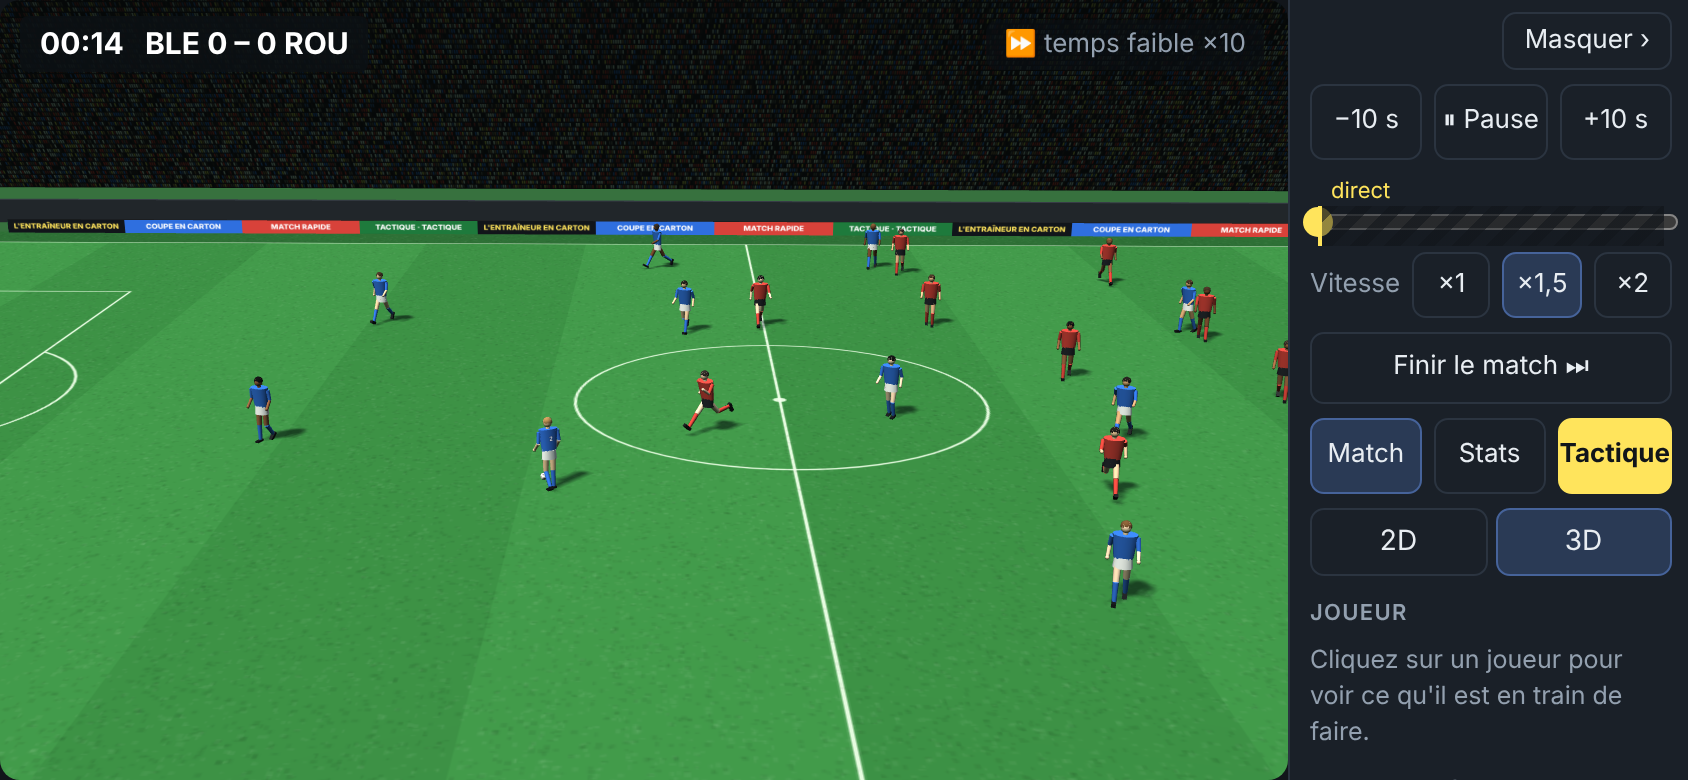
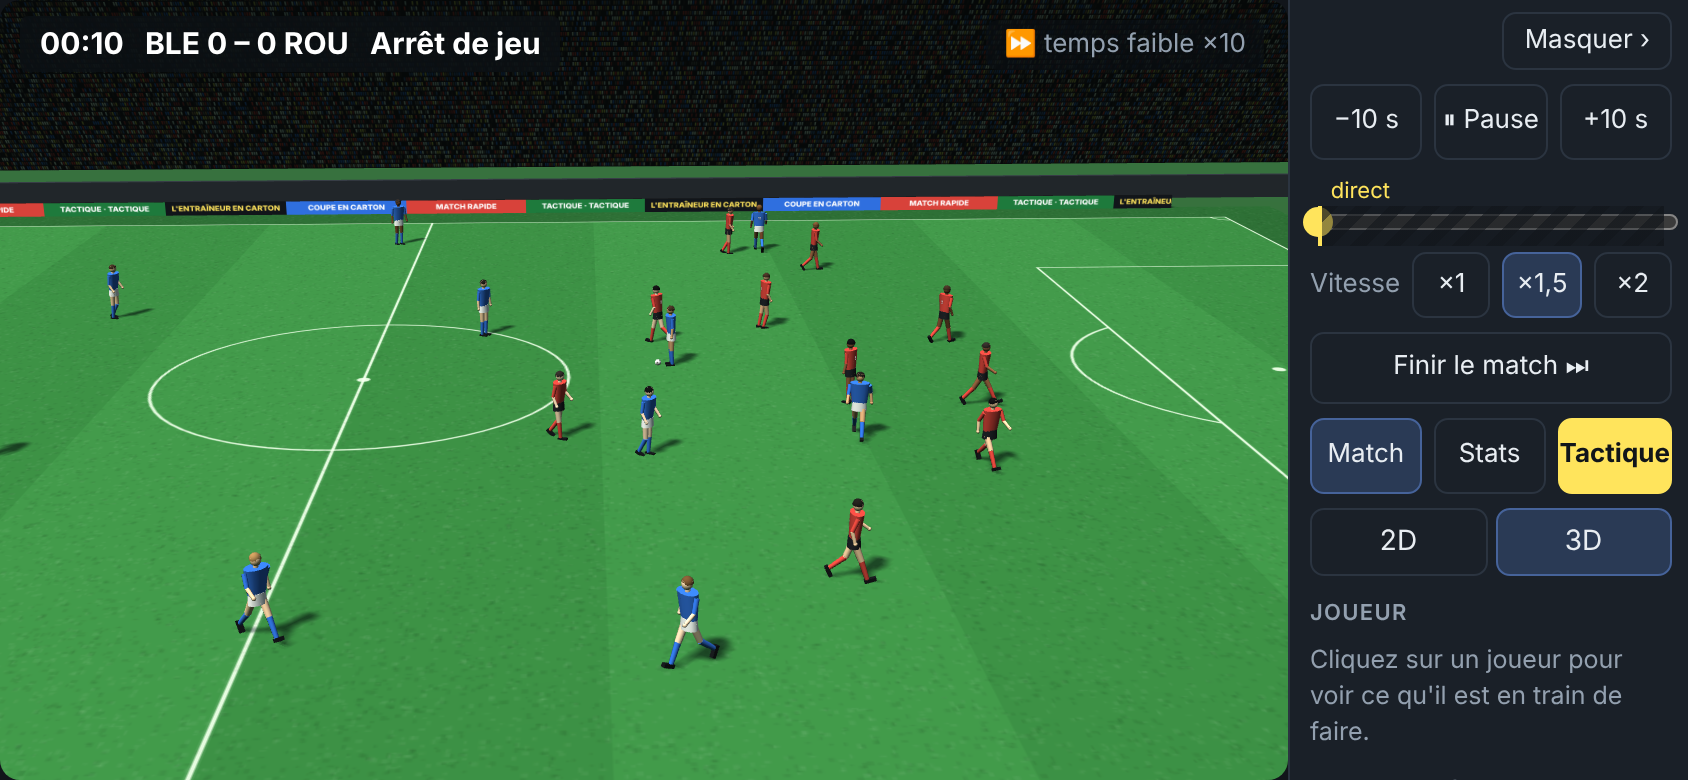
Joueurs animés : essais adaptés (longs parcours avec les joueurs faits main, essai court du replay animé), pas d'ombre de joueur sur téléphone (n° 129)
Claude-Session: https://claude.ai/code/session_01JE8fKzMuvQtjsPz4c7PEni

diff --git a/tools/replay.js b/tools/replay.js
@@ -15,7 +15,9 @@ const SEED = 22;      // équipes standard, 10 minutes : un but à 0:51
 (async () => {
   const browser = await pw.chromium.launch({ args: ['--use-gl=swiftshader', '--enable-webgl', '--ignore-gpu-blocklist'] });
   const errors = [];
-  const serve = async ctx => { await ctx.route(R3.LIB, r => r.fulfill({ status: 200, contentType: 'application/javascript', body: fs.readFileSync(LIBF) })); for (const [u, f] of P3F) await ctx.route(u, r => r.fulfill({ status: 200, contentType: /\.glb$/.test(u) ? 'model/gltf-binary' : 'application/javascript', body: fs.readFileSync(f) })); };
+  // model = false : sans le mannequin animé (joueurs faits main). Ici, sans carte graphique, 22 corps animés ne font qu'une image par seconde :
+// les longs parcours se font donc avec les joueurs faits main, et un essai court vérifie les joueurs animés.
+const serve = async (ctx, model = true) => { await ctx.route(R3.LIB, r => r.fulfill({ status: 200, contentType: 'application/javascript', body: fs.readFileSync(LIBF) })); for (const [u, f] of P3F) await ctx.route(u, r => !model && /\.glb$/.test(u) ? r.abort() : r.fulfill({ status: 200, contentType: /\.glb$/.test(u) ? 'model/gltf-binary' : 'application/javascript', body: fs.readFileSync(f) })); };
   const state = p => p.evaluate(() => document.body.dataset.replay || '');
   const colors = async p => {
     const png = (await (await p.$('#replayCv')).screenshot()).toString('base64');
@@ -28,7 +30,7 @@ const SEED = 22;      // équipes standard, 10 minutes : un but à 0:51
   };
 
   console.log('Ordinateur');
-  const ctx = await browser.newContext({ viewport: { width: 1400, height: 900 } }); await serve(ctx);
+  const ctx = await browser.newContext({ viewport: { width: 1400, height: 900 } }); await serve(ctx, false);
   const page = await ctx.newPage(); page.on('pageerror', e => errors.push(String(e)));
   await start(page);
   check(await page.isChecked('#rpAuto'), 'case « Replay des buts » cochée par défaut');
@@ -72,7 +74,7 @@ const SEED = 22;      // équipes standard, 10 minutes : un but à 0:51
   await page.check('#rpAuto');
 
   console.log('Téléphone couché (844 × 390)');
-  const tel = await browser.newContext({ viewport: { width: 844, height: 390 }, isMobile: true, hasTouch: true, deviceScaleFactor: 2 }); await serve(tel);
+  const tel = await browser.newContext({ viewport: { width: 844, height: 390 }, isMobile: true, hasTouch: true, deviceScaleFactor: 2 }); await serve(tel, false);
   const ph = await tel.newPage(); ph.on('pageerror', e => errors.push(String(e)));
   await ph.goto(url); await ph.evaluate(() => { localStorage.setItem('menuFerme', '1'); localStorage.removeItem('vue'); }); await start(ph);
   await ph.tap('#kick'); await ph.evaluate(() => document.querySelector('[data-speed="2"]').click());
@@ -83,6 +85,17 @@ const SEED = 22;      // équipes standard, 10 minutes : un but à 0:51
   await ph.screenshot({ path: path.join(DOCS, 'replay-telephone.png') }); console.log('        capture : docs/replay-telephone.png');
   await ph.tap('#rpSkip'); await ph.waitForTimeout(400);
   check(await ph.isHidden('#replay') && await ph.isVisible('#pmini'), '« Passer » au doigt : retour au match');
+
+  console.log('Replay avec les joueurs animés (vrais mouvements, n° 129)');
+  const an = await browser.newContext({ viewport: { width: 1200, height: 700 } }); await serve(an, true);
+  const ap = await an.newPage(); ap.on('pageerror', e => errors.push(String(e)));
+  await start(ap); await ap.click('#kick'); await ap.click('[data-speed="2"]');
+  await ap.waitForFunction(() => document.body.dataset.replay === 'tele', null, { timeout: 120000 });
+  await ap.waitForTimeout(4000);
+  const ca = await colors(ap);
+  check(await ap.evaluate(() => window.Players3D && Players3D.ready()) && ca > 40, 'le replay s\'affiche avec les joueurs animés', ca + ' teintes');
+  await ap.screenshot({ path: path.join(DOCS, 'replay-anime.png') }); console.log('        capture : docs/replay-anime.png');
+  await ap.click('#rpSkip');
 
   check(errors.length === 0, 'aucune erreur JavaScript', errors.join(' | '));
   await browser.close();

diff --git a/match.html b/match.html
@@ -2805,7 +2805,7 @@ function create(canvas, R2, opt) {
       const k = (p.num * 7 + p.team * 3 + p.id) >>> 0, shorts = p.team === 0 ? '#f2f4f7' : '#1b1f24', socks = p.role === 'GK' ? shirt : p.team === 0 ? '#2f6fdf' : '#d8423a';
       if (P3() && P3().ready()) {      // vrais mouvements (n° 129)
         const C = c => new THREE.Color(c);
-        f = P3().make({ shirt: C(shirt), shorts: C(shorts), socks: C(socks), skin: C(SKIN[k % SKIN.length]), hair: C(HAIR[(k >> 2) % HAIR.length]), boots: C('#141619'), hands: C(p.role === 'GK' ? '#f2f2f2' : SKIN[k % SKIN.length]) }, { num: p.num, ink: '#ffffff', shadow: true });
+        f = P3().make({ shirt: C(shirt), shorts: C(shorts), socks: C(socks), skin: C(SKIN[k % SKIN.length]), hair: C(HAIR[(k >> 2) % HAIR.length]), boots: C('#141619'), hands: C(p.role === 'GK' ? '#f2f2f2' : SKIN[k % SKIN.length]) }, { num: p.num, ink: '#ffffff', shadow: !opt.small });      // sur téléphone, pas d'ombre sous les joueurs (plus léger)
         f.userData.x = null; f.userData.lean = 0; scene.add(f);
       } else f = makePlayer(shirt, shorts, socks, SKIN[k % SKIN.length], HAIR[(k >> 2) % HAIR.length], p.num, '#ffffff');
       f.userData.key = key + shirt; figs.set(p.id, f);
@@ -3231,7 +3231,7 @@ function create(canvas, R2, opt) {
       const k = (q.num * 7 + q.team * 3 + i) >>> 0, gk = q.role === 'GK', shirt = gk ? KEEPER[q.team] : c.teams[q.team].color;
       const shorts = q.team === 0 ? '#f2f4f7' : '#1b1f24', socks = gk ? shirt : q.team === 0 ? '#2f6fdf' : '#d8423a';
       if (P3()) {      // vrais mouvements (n° 129)
-        const f = P3().make({ shirt: lin(shirt), shorts: lin(shorts), socks: lin(socks), skin: lin(SKIN[k % SKIN.length]), hair: lin(HAIR[(k >> 2) % HAIR.length]), boots: lin('#141619'), hands: lin(gk ? '#f2f2f2' : SKIN[k % SKIN.length]) }, { num: q.num, name: q.name, ink: gk ? '#11151a' : '#ffffff', shadow: true });
+        const f = P3().make({ shirt: lin(shirt), shorts: lin(shorts), socks: lin(socks), skin: lin(SKIN[k % SKIN.length]), hair: lin(HAIR[(k >> 2) % HAIR.length]), boots: lin('#141619'), hands: lin(gk ? '#f2f2f2' : SKIN[k % SKIN.length]) }, { num: q.num, name: q.name, ink: gk ? '#11151a' : '#ffffff', shadow: !opt.small });
         f.rotation.order = 'YXZ'; f.userData.sp = 0; scene.add(f); figs.push(f);
       } else figs.push(makePlayer(q, shirt, shorts, socks, SKIN[k % SKIN.length], HAIR[(k >> 2) % HAIR.length], gk));
     });

diff --git a/tools/vue3d.js b/tools/vue3d.js
@@ -16,7 +16,9 @@ let fails = 0; const check = (ok, what, info) => { if (!ok) fails++; console.log
 (async () => {
   const browser = await pw.chromium.launch({ args: ['--use-gl=swiftshader', '--enable-webgl', '--ignore-gpu-blocklist'] });
   const errors = [];
-  const serve = async ctx => { await ctx.route(R3.LIB, r => r.fulfill({ status: 200, contentType: 'application/javascript', body: fs.readFileSync(LIBF) })); for (const [u, f] of P3F) await ctx.route(u, r => r.fulfill({ status: 200, contentType: /\.glb$/.test(u) ? 'model/gltf-binary' : 'application/javascript', body: fs.readFileSync(f) })); };
+  // model = false : sans le mannequin animé (joueurs faits main). Ici, sans carte graphique, 22 corps animés ne font qu'une image par seconde :
+// les longs parcours se font donc avec les joueurs faits main, et un essai court vérifie les joueurs animés.
+const serve = async (ctx, model = true) => { await ctx.route(R3.LIB, r => r.fulfill({ status: 200, contentType: 'application/javascript', body: fs.readFileSync(LIBF) })); for (const [u, f] of P3F) await ctx.route(u, r => !model && /\.glb$/.test(u) ? r.abort() : r.fulfill({ status: 200, contentType: /\.glb$/.test(u) ? 'model/gltf-binary' : 'application/javascript', body: fs.readFileSync(f) })); };
 
   console.log('Ordinateur');
   const ctx = await browser.newContext({ viewport: { width: 1400, height: 900 } }); await serve(ctx);
@@ -52,7 +54,7 @@ let fails = 0; const check = (ok, what, info) => { if (!ok) fails++; console.log
   check(await page.evaluate(() => document.querySelector('[data-view="3d"]').classList.contains('on')), 'la vue 3D est retenue d\'une fois sur l\'autre');
 
   console.log('Téléphone couché (844 × 390)');
-  const tel = await browser.newContext({ viewport: { width: 844, height: 390 }, isMobile: true, hasTouch: true, deviceScaleFactor: 2 }); await serve(tel);
+  const tel = await browser.newContext({ viewport: { width: 844, height: 390 }, isMobile: true, hasTouch: true, deviceScaleFactor: 2 }); await serve(tel, false);
   const ph = await tel.newPage(); ph.on('pageerror', e => errors.push(String(e)));
   await ph.goto(url); await ph.evaluate(() => { localStorage.setItem('vue', '3d'); localStorage.removeItem('menuFerme'); }); await ph.reload();
   await ph.waitForFunction(() => document.body.dataset.vue3d === 'prete', null, { timeout: 60000 });

diff --git a/render3d.js b/render3d.js
@@ -185,7 +185,7 @@ function create(canvas, R2, opt) {
       const k = (p.num * 7 + p.team * 3 + p.id) >>> 0, shorts = p.team === 0 ? '#f2f4f7' : '#1b1f24', socks = p.role === 'GK' ? shirt : p.team === 0 ? '#2f6fdf' : '#d8423a';
       if (P3() && P3().ready()) {      // vrais mouvements (n° 129)
         const C = c => new THREE.Color(c);
-        f = P3().make({ shirt: C(shirt), shorts: C(shorts), socks: C(socks), skin: C(SKIN[k % SKIN.length]), hair: C(HAIR[(k >> 2) % HAIR.length]), boots: C('#141619'), hands: C(p.role === 'GK' ? '#f2f2f2' : SKIN[k % SKIN.length]) }, { num: p.num, ink: '#ffffff', shadow: true });
+        f = P3().make({ shirt: C(shirt), shorts: C(shorts), socks: C(socks), skin: C(SKIN[k % SKIN.length]), hair: C(HAIR[(k >> 2) % HAIR.length]), boots: C('#141619'), hands: C(p.role === 'GK' ? '#f2f2f2' : SKIN[k % SKIN.length]) }, { num: p.num, ink: '#ffffff', shadow: !opt.small });      // sur téléphone, pas d'ombre sous les joueurs (plus léger)
         f.userData.x = null; f.userData.lean = 0; scene.add(f);
       } else f = makePlayer(shirt, shorts, socks, SKIN[k % SKIN.length], HAIR[(k >> 2) % HAIR.length], p.num, '#ffffff');
       f.userData.key = key + shirt; figs.set(p.id, f);

diff --git a/replay3d.js b/replay3d.js
@@ -330,7 +330,7 @@ function create(canvas, R2, opt) {
       const k = (q.num * 7 + q.team * 3 + i) >>> 0, gk = q.role === 'GK', shirt = gk ? KEEPER[q.team] : c.teams[q.team].color;
       const shorts = q.team === 0 ? '#f2f4f7' : '#1b1f24', socks = gk ? shirt : q.team === 0 ? '#2f6fdf' : '#d8423a';
       if (P3()) {      // vrais mouvements (n° 129)
-        const f = P3().make({ shirt: lin(shirt), shorts: lin(shorts), socks: lin(socks), skin: lin(SKIN[k % SKIN.length]), hair: lin(HAIR[(k >> 2) % HAIR.length]), boots: lin('#141619'), hands: lin(gk ? '#f2f2f2' : SKIN[k % SKIN.length]) }, { num: q.num, name: q.name, ink: gk ? '#11151a' : '#ffffff', shadow: true });
+        const f = P3().make({ shirt: lin(shirt), shorts: lin(shorts), socks: lin(socks), skin: lin(SKIN[k % SKIN.length]), hair: lin(HAIR[(k >> 2) % HAIR.length]), boots: lin('#141619'), hands: lin(gk ? '#f2f2f2' : SKIN[k % SKIN.length]) }, { num: q.num, name: q.name, ink: gk ? '#11151a' : '#ffffff', shadow: !opt.small });
         f.rotation.order = 'YXZ'; f.userData.sp = 0; scene.add(f); figs.push(f);
       } else figs.push(makePlayer(q, shirt, shorts, socks, SKIN[k % SKIN.length], HAIR[(k >> 2) % HAIR.length], gk));
     });

diff --git a/CLAUDE.md b/CLAUDE.md
@@ -739,7 +739,7 @@ Sixième séance (9 octobre 2026) : axe « niveaux », en commençant par la pos
 | 126 | Remarque de Frédéric (16 octobre 2026) : en défense, « les joueurs ont tendance à tous se regrouper vers le ballon, ça fait un peu match de poussins ». Ses précisions : ce qui choque, ce sont les défenseurs qui sortent et trop de presseurs ; attendu au neutre : un presse, un couvre, le bloc coulisse ; « harceler » à part. Nouvel outil `tools/bloc.js` (joueurs autour du porteur et pourquoi, défenseurs sortis, lignes, largeur, ballons libres ; `tools/snap.js` accepte maintenant `equipe=`). Mesuré avant : près de son but, 2 joueurs ou plus sur le porteur 63 % du temps, 3 et plus 20 % (neutre) ; 86 % et 33 % pour Paris – Lyon ; un défenseur central sorti sur le porteur 65 % du temps (Paris – Lyon). Les lignes, elles, tiennent (défense plate à 1,5 m près, 10 m entre défense et milieu), et sur un ballon libre un seul joueur par équipe y va le plus souvent | Hors « harceler » : au plus deux joueurs sur le porteur (`PRESS_CAP`) ; le joueur qui venait aider, ou contre-presser près de son but, **couvre à 5 m derrière le presseur, côté but** (fiche « Couvre derrière le presseur ») ; quand le chemin du but est ouvert, la priorité va à celui qui le ferme ; ce défenseur garde ses distances loin du but et va au duel sous 18 m. Un défenseur central ne sort plus sur un porteur à plus de 8 m devant sa ligne au milieu du terrain (`CB_STEP`). « Harceler » inchangé. **Essais ratés** : limiter simplement le nombre de presseurs fait monter les buts (neutre 3,1 → 4,0 ; Paris – Lyon 3,9 → 4,9), parce que le moteur a besoin de plusieurs joueurs autour du porteur pour lui reprendre le ballon ; couverture à 2,5 m (4,1 buts) ou 3,5 m (3,5) : moins bonne qu'à 5 m | Neutre (120 matchs) : près de son but, 3 joueurs et plus sur le porteur 20 → 14 % ; buts 3,1 → 3,1, occasions 3,0 → 3,2. Paris – Lyon (120 matchs) : 3,7 buts (3,9 avant), 69 % de victoires, 16 % de nuls, 15 % de défaites ; à l'image presque rien ne change, car presque tous les clubs jouent en « harceler ». `check.js 30` sans anomalie. **Reste à faire** : qu'un défenseur seul (bien placé, couvert) reprenne le ballon aussi bien que deux ; les styles des clubs (9 sur 18 en « harceler ») sont peut-être trop agressifs |
 | 127 | Suite du n° 126 (choix de Frédéric : défense en 1 contre 1, puis les styles des clubs, la 3D ensuite) | **Défense en 1 contre 1** : au moment de tacler, si un coéquipier couvre (à moins de 7 m du porteur, plus près du but que lui), le presseur attaque le ballon plus souvent (`COVER_LAM` = ×1,4) et gagne le duel plus souvent (`COVER_WIN` = +10 points) ; seul et à plus de 30 m de son but, il temporise (`ALONE_LAM` = ×0,55). **Essai raté** : avec cette règle, limiter aussi le « harceler » à trois joueurs sur le porteur donne encore 4,5 buts par match à Paris – Lyon (3,8 sans limite) et ne change presque rien à l'image (près de son but, 3 joueurs et plus 33 % du temps) : les joueurs autour du tireur servent aussi à contrer les tirs. « Harceler » reste donc sans limite | Neutre (120 matchs) : 3,3 buts (3,1). Paris – Lyon : 3,8 buts, 77 % de victoires sur 120 (69 % sans la règle ; écart en partie dû au hasard). `check.js 20` sans anomalie. La vraie cause visible : 9 clubs sur 18 jouent en « harceler » (Paris, Lens, Lyon, Rennes, Monaco, Strasbourg, Paris FC, Brest, Auxerre) |
 | 128 | Choix de Frédéric (16 octobre 2026) : seuls Paris, Lens et Strasbourg gardent le pressing « harceler » ; les autres gardent leur bloc | `equipes.json` : Lyon, Rennes, Monaco, Paris FC, Brest et Auxerre passent au pressing normal (bloc inchangé) | Lyon – Marseille (120 matchs) : au milieu du terrain, un seul joueur sort sur le porteur 88 % du temps (avant : deux, la plupart du temps). **Mais le « harceler » est très efficace dans ce moteur** : Lyon gagnait 35 matchs sur 120 contre Marseille, il n'en gagne plus que 14 (19 nuls, 87 défaites) ; Paris – Lyon : 94 victoires, 18 nuls, 8 défaites (cible de Frédéric 70 – 18 – 12). Tournoi des 18 clubs à remesurer |
-| 129 | Frédéric (16 octobre 2026) : les animations des joueurs qui courent en 3D « ne sont vraiment pas très réalistes ». Son choix : un personnage tout prêt avec de vrais mouvements enregistrés, aux couleurs de l'équipe, même silhouette pour tous | Nouveau fichier `players3d.js` : le mannequin « Xbot » des exemples de three.js (mouvements capturés sur un acteur : immobile, marche, course ; 2,9 Mo), chargé depuis internet une seule fois avec le chargeur de modèles et l'outil de copie des squelettes de three.js r128, puis copié pour chaque joueur. **Tenue** peinte selon la hauteur de chaque point du corps : chaussures, chaussettes, genoux, short, maillot et manches, avant-bras, mains (gants pour le gardien), cou, tête, cheveux. **Numéro et nom dans le dos**, accrochés au haut du dos (ils suivent le buste). **Course** : on mélange immobile, marche et course selon la vitesse du joueur dans le match, et la cadence suit sa vitesse. Vue 3D du match et replay des buts l'utilisent ; dans le replay, frappe, coup de tête et plongeon du gardien tournent les os du squelette par-dessus le mouvement enregistré. Sans le mannequin (pas d'internet), on garde les joueurs faits main. La page note `document.body.dataset.joueurs3d` (« animes » ou « simples ») | `tools/vue3d.js` (nouveaux essais : joueurs animés, mannequin introuvable → joueurs faits main), `tools/replay.js`, `tools/telephone.js`, `tools/page.js`. Captures `docs/vue-3d.png`, `docs/replay-tele.png`, `docs/replay-buteur.png`. **Pas essayé sur un vrai téléphone** : 22 corps animés, c'est plus lourd que les joueurs faits main |
+| 129 | Frédéric (16 octobre 2026) : les animations des joueurs qui courent en 3D « ne sont vraiment pas très réalistes ». Son choix : un personnage tout prêt avec de vrais mouvements enregistrés, aux couleurs de l'équipe, même silhouette pour tous | Nouveau fichier `players3d.js` : le mannequin « Xbot » des exemples de three.js (mouvements capturés sur un acteur : immobile, marche, course ; 2,9 Mo), chargé depuis internet une seule fois avec le chargeur de modèles et l'outil de copie des squelettes de three.js r128, puis copié pour chaque joueur. **Tenue** peinte selon la hauteur de chaque point du corps : chaussures, chaussettes, genoux, short, maillot et manches, avant-bras, mains (gants pour le gardien), cou, tête, cheveux. **Numéro et nom dans le dos**, accrochés au haut du dos (ils suivent le buste). **Course** : on mélange immobile, marche et course selon la vitesse du joueur dans le match, et la cadence suit sa vitesse. Vue 3D du match et replay des buts l'utilisent ; dans le replay, frappe, coup de tête et plongeon du gardien tournent les os du squelette par-dessus le mouvement enregistré. Sans le mannequin (pas d'internet), on garde les joueurs faits main. La page note `document.body.dataset.joueurs3d` (« animes » ou « simples ») | `tools/vue3d.js` (nouveaux essais : joueurs animés, mannequin introuvable → joueurs faits main), `tools/replay.js` (nouvel essai : replay avec les joueurs animés, capture `docs/replay-anime.png`), `tools/telephone.js`, `tools/page.js`. Dans cet environnement sans carte graphique, la vue 3D passe de 4,3 à 1 image par seconde (ombres des joueurs retirées : 1,3) ; les essais longs se font donc avec les joueurs faits main. Sur téléphone, pas d'ombre sous les joueurs. **Pas essayé sur un vrai ordinateur ni un vrai téléphone** : la fluidité reste à vérifier par Frédéric |
 | 58 | Tournoi complet (`node tools/levels.js 60`) | — | Possession de l'équipe forte contre Faible : 56 à 59 %. Entre niveaux voisins : toujours 48 à 52 %. Élite contre Faible : 10,2 à 0,05. Passes réussies : l'équipe forte n'en réussit toujours pas plus que l'autre contre le même adversaire |
 
 | 59 | Demande de Frédéric : l'équipe forte doit garder le ballon. Découverte : le « goût du risque » de Faible (7,8) la rendait plus prudente que l'Élite (13,9) | Prudence et patience dépendent aussi de la lucidité : un joueur lucide sait ce que coûte une passe forcée et attend avant de forcer (rien à 14) | Seul : +1 à 3 points de possession |
